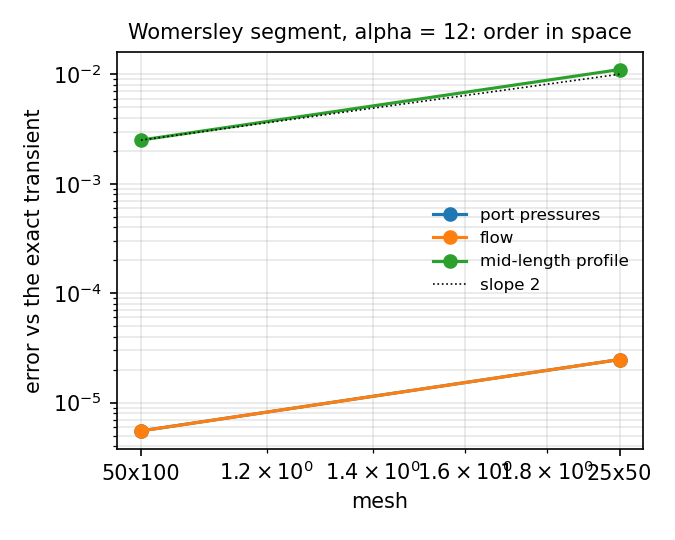
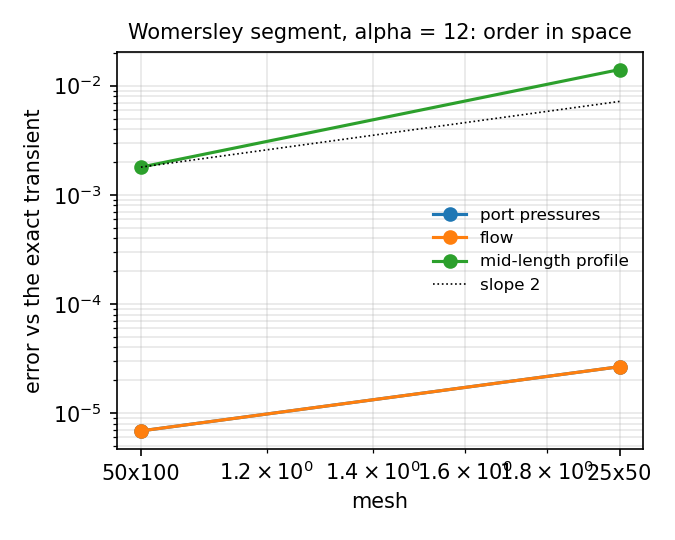
womersleySegment: the reference the wedge actually discretises; second order on every mesh
A wedge with one flat cell across discretises the circular pipe of the
face distance R_c = R cos(theta/2) with every flux multiplied by
k = 2 tan(theta/2)/theta, not the equal-area pipe used since the first
round: the two have the same inertance but viscous resistances differing
by k, a floor of about 1e-5 in the comparison. With the correct reference
(R_WEDGE, K_WEDGE) the ports converge at 2.00 on the uniform family to
200 x 400 (2.2e-6) and on the tutorial's graded family to 100 x 200
(2.0e-6), alpha 3, 6 and 12; the first round's "PIMPLE-limited" floor was
this reference error. The profile is compared inside the face distance
only (the sets sampled 5 um beyond it).

diff --git a/tutorials/circulationModels/coupling3D1D/womersleySegment/analyse.py b/tutorials/circulationModels/coupling3D1D/womersleySegment/analyse.py
@@ -58,17 +58,25 @@ def exact(alpha):
     return out
 
 
-# The flat-walled wedge of the tutorial's mesh has the cross-section
-# 0.5 R^2 sin(theta) per wedge (theta = 5 degrees), 0.99873 of its share of
-# pi R^2, with the wall vertices at R: the 3D problem solved is closest to
-# the circular pipe of the same area, radius R_EQ = R sqrt(sin(theta)/theta).
+# What the wedge mesh discretises. A wedge of angle theta with one cell
+# across and a flat outer face at the distance R_c = R cos(theta/2) from the
+# axis (its edge vertices at R) has, at every distance x from the axis,
+# faces and volumes of width 2 x tan(theta/2) instead of the sector's
+# x theta: a uniform factor k = 2 tan(theta/2)/theta. The axisymmetric
+# finite-volume problem is therefore the circular pipe of radius R_c with
+# every flux multiplied by k: Womersley's impedance of the pipe of radius
+# R_c divided by k, i.e. exact_transient(A = k pi R_c^2 = A_WEDGE,
+# R = R_c). The equal-area pipe (radius sqrt(A_WEDGE/pi)) has the same
+# inertance but a viscous resistance k times smaller; against it the
+# comparison floors at about 1e-5 (the first round used it, wrongly).
 # exact_transient() and exact_transient_profile() take the pipe's area and
-# radius as arguments (defaults: pi R^2 and R); the space study uses the
-# equal-area pipe.
+# radius as arguments (defaults: pi R^2 and R).
 import math as _math
 THETA = _math.radians(5.0)
-A_WEDGE = (360/5.0)*0.5*R**2*_math.sin(THETA)
-R_EQ = _math.sqrt(A_WEDGE/_math.pi)
+K_WEDGE = 2*_math.tan(THETA/2)/THETA
+A_WEDGE = (360/5.0)*0.5*R**2*_math.sin(THETA)       # = K_WEDGE pi R_WEDGE^2
+R_WEDGE = R*_math.cos(THETA/2)
+R_EQ = _math.sqrt(A_WEDGE/_math.pi)                 # the equal-area pipe (not used)
 
 
 def impedance(w, alpha, A=A, R=R):
@@ -230,17 +238,17 @@ def main():
                 f"| {key} [{unit}] | {abs(X):.4g} / {abs(W):.4g} / {abs(I):.4g} "
                 f"| {ph(X):.2f} / {ph(W):.2f} / {ph(I):.2f} "
                 f"| {abs(X - W)/abs(W):.2e} | {dph:.3f} |")
-        # The same against the circular pipe of the wedge's cross-section
-        # (flat wall: 0.5 R^2 sin(theta) per wedge; R_EQ): what the mesh
-        # actually represents
-        lam = 1j**1.5*R_EQ*math.sqrt(OMEGA/nu(alpha))
+        # The same against the problem the wedge discretises: the pipe of
+        # radius R_WEDGE with its flux times K_WEDGE (area A_WEDGE)
+        lam = 1j**1.5*R_WEDGE*math.sqrt(OMEGA/nu(alpha))
         f10 = 2*jv(1, lam)/(lam*jv(0, lam))
         Zeq = 1j*OMEGA*RHO*L3D/(A_WEDGE*(1 - f10))
         geq, Teq = Zeq/(Zeq + 2*ZC), 2*ZC/(Zeq + 2*ZC)
         pinc = -1j*P_INC*cmath.exp(-1j*OMEGA*L1D/C0)
         exeq = {"P_in": (1 + geq)*pinc, "Q": Teq*pinc/ZC, "P_out": Teq*pinc}
-        lines += [f"Against the pipe of the wedge's cross-section (R_eq = "
-                  f"{R_EQ*1e3:.5f} mm, 0.99873 pi R^2): " + ", ".join(
+        lines += [f"Against the problem the wedge discretises (the pipe of "
+                  f"radius R cos(theta/2) = {R_WEDGE*1e3:.5f} mm, flux x "
+                  f"{K_WEDGE:.6f}): " + ", ".join(
                       f"{k} {abs(fitted[k] - exeq[k])/abs(exeq[k]):.1e} / "
                       f"{(math.degrees(cmath.phase(fitted[k]/exeq[k])) + 180) % 360 - 180:.4f} deg"
                       for k in ("P_in", "Q", "P_out")), ""]

diff --git a/tutorials/circulationModels/coupling3D1D/womersleySegment/spaceStudy.py b/tutorials/circulationModels/coupling3D1D/womersleySegment/spaceStudy.py
@@ -163,8 +163,11 @@ def analyse(alpha, levels):
         if not finished(case):
             continue
         t, p = ports(case)
-        geo = dict(A=an.A, R=an.R) if FAMILY == "uniform" else \
-            dict(A=an.A_WEDGE, R=an.R_EQ)
+        # the problem the wedge discretises (see analyse.py): the pipe of
+        # the face distance R_c, flux times k; the uniform family is scaled
+        # so that k pi R_c^2 = pi R^2
+        geo = dict(A=an.A, R=an.R_WEDGE*SCALE_U) if FAMILY == "uniform" else \
+            dict(A=an.A_WEDGE, R=an.R_WEDGE)
         ex = an.exact_transient(alpha, t, **geo)
         eP = max(math.sqrt(np.mean((p[k] - ex[k])**2))
                  / math.sqrt(np.mean(ex[k]**2)) for k in ("to3D.P", "from3D.P"))
@@ -173,9 +176,12 @@ def analyse(alpha, levels):
         prof = profiles(case)
         times = sorted(prof)
         r = prof[times[0]][0]
+        inside = r <= geo["R"]           # the set's last points lie beyond
+        r = r[inside]                    # the flat outer face
         uex = an.exact_transient_profile(alpha, r, times, **geo)
         umax = np.abs(uex).max()
-        eU = max(np.abs(prof[tk][1] - uex[i]).max() for i, tk in enumerate(times))/umax
+        eU = max(np.abs(prof[tk][1][inside] - uex[i]).max()
+                 for i, tk in enumerate(times))/umax
         log = (case/"log.pimpleFoam").read_text()
         steps = len(re.findall(r"^Time = ", log, re.M))
         iters = len(re.findall(r"^PIMPLE: iteration", log, re.M))
@@ -184,14 +190,15 @@ def analyse(alpha, levels):
                      eP, eQ, eU, iters/max(steps, 1),
                      float(ex_t[-1]) if ex_t else math.nan))
     geometry = (
-        "The wedge is scaled by sqrt(theta/sin theta) (its flat wall then "
-        "spans the cross-section pi R^2) and has no wall grading, so the "
-        "exact solution is that of the pipe of radius R, independent of the "
-        "mesh." if FAMILY == "uniform" else
-        "The exact solution is that of the circular pipe of the wedge's "
-        "cross-section (flat wall: 0.5 R^2 sin(theta) per wedge, R_eq = "
-        f"{an.R_EQ*1e3:.5f} mm); against the pipe of radius R the comparison "
-        "floors at 6e-5 whatever the mesh.")
+        "The wedge has no wall grading and is scaled by sqrt(theta/sin "
+        "theta), so that its cross-section is pi R^2. The exact solution is "
+        "that of the problem the wedge discretises: the pipe of radius "
+        f"R_c = {an.R_WEDGE*SCALE_U*1e3:.5f} mm (the flat face's distance "
+        f"from the axis) with every flux times k = {an.K_WEDGE:.6f} "
+        "(analyse.py); the profile is compared for r <= R_c." if FAMILY == "uniform" else
+        "The exact solution is that of the problem the wedge discretises: the "
+        f"pipe of radius R_c = R cos(theta/2) = {an.R_WEDGE*1e3:.5f} mm with "
+        f"every flux times k = {an.K_WEDGE:.6f} (analyse.py).")
     lines = [f"# Order in space of the Womersley segment, alpha = {alpha:g}"
              + (" (uniform mesh family)" if FAMILY == "uniform" else ""),
              "",

diff --git a/tutorials/circulationModels/coupling3D1D/orderStudy.py b/tutorials/circulationModels/coupling3D1D/orderStudy.py
@@ -256,7 +256,7 @@ def exact_signals(case_name, t):
         return {"to3D.Q": (t, Q), "to3D.P": (t, P)}
     if case_name == "womersleySegment":
         # the circular pipe of the wedge's cross-section (see its README)
-        ex = an.exact_transient(6.0, t, A=an.A_WEDGE, R=an.R_EQ)
+        ex = an.exact_transient(6.0, t, A=an.A_WEDGE, R=an.R_WEDGE)
         return {k: (t, x) for k, x in ex.items()}
     raise SystemExit(f"{case_name} has no exact solution")
 

diff --git a/src/circulationModels/docs/PAPER_RESULTS.md b/src/circulationModels/docs/PAPER_RESULTS.md
@@ -1104,3 +1104,61 @@ stress) and the structural end condition. Recommendation for the paper:
 quote the long-pulse case as the one in which the coupled-against-full
 comparison measures the coupling, and match the 1D wall to the long
 tube's long-wave speed.
+
+### R2 (concluded). The Womersley floor was the reference, not the solver (verified)
+
+The finest pair of the uniform family gave 1.68 on the ports, and the
+fourth level (200 x 400, 17 h on xenosim) 0.42. Checks at 100 x 200: the
+1D side refined (800 cells, CFL 0.25) changes the ports by 1e-8 and the
+time step halved by 1e-9, so neither is the cause. The error was linear
+(identical relative error at 50, 5 and 0.5 Pa, so not the convection
+term), and doubling the pipe length doubled it (so not an end effect at
+the ports): a per-length error in the segment's impedance, independent
+of the mesh.
+
+**Cause.** A wedge of angle theta with one cell across and a flat outer
+face at the distance R_c = R cos(theta/2) from the axis has, at every
+distance x from the axis, faces and volumes of width 2 x tan(theta/2)
+instead of the sector's x theta, a uniform factor k = 2 tan(theta/2)/theta
+= 1.000635. The axisymmetric finite-volume problem it discretises is
+therefore the circular pipe of radius R_c with every flux multiplied by
+k: Womersley's impedance of radius R_c divided by k (area k pi R_c^2 =
+A_WEDGE). The "equal-area pipe" used since the first round (radius
+sqrt(A_WEDGE/pi)) has the same inertance but a viscous resistance k
+times smaller, and the comparison floors at about 1e-5 against it. The
+profile sets also sampled 5 um beyond the flat face (r = 0.9995 R >
+R_c), which made the profile's maximum error sit at the wall.
+
+**With the correct reference** (`analyse.py: R_WEDGE, K_WEDGE`; used by
+`spaceStudy.py`, `orderStudy.py --exact` and `results.md`):
+
+| family | mesh | ports | order | profile (r <= R_c) | order |
+|---|---|---|---|---|---|
+| uniform, alpha 6 | 25 x 50 | 1.37e-04 | | 4.64e-02 | |
+| | 50 x 100 | 3.43e-05 | 1.99 | 2.54e-02 | 0.87 |
+| | 100 x 200 | 8.59e-06 | 2.00 | 1.48e-02 | 0.78 |
+| | 200 x 400 | 2.15e-06 | 2.00 | 8.54e-03 | 0.79 |
+| graded 10:1 (tutorial), alpha 6 | 25 x 50 | 3.11e-05 | | 6.74e-03 | |
+| | 50 x 100 | 7.80e-06 | 1.99 | 8.56e-04 | 2.98 |
+| | 100 x 200 | 1.96e-06 | 2.00 | 1.86e-04 | 2.20 |
+| graded, alpha 3 | 25 x 50 / 50 x 100 | 5.82e-05 / 1.43e-05 | 2.02 | 7.69e-03 / 2.19e-03 | 1.81 |
+| graded, alpha 12 | 25 x 50 / 50 x 100 | 2.67e-05 / 6.88e-06 | 1.95 | 1.40e-02 / 1.79e-03 | 2.97 |
+
+The ports converge at second order on both families at every alpha, to
+2e-6 of the signal. So the first-round statement that the 100 x 200
+graded mesh "is limited by the outer loop ... about 5e-6, not the mesh's"
+was wrong: that was the reference's floor too (the PIMPLE stall, 45
+passes per step, is a cost, not an accuracy limit). The profile
+converges at second order or better on the graded mesh; on the uniform
+mesh its maximum sits in the first cell at the wall, where the sampling
+interpolates linearly between the wall value and the first cell centre
+(first order), and should be measured on cell values instead.
+
+Periodic state of the tutorial runs against the correct reference:
+amplitudes 6.7e-6 to 8.0e-6 (alpha 6 and 12) and 1.1-1.3e-5 (alpha 3),
+phases 0.0002-0.0004 degrees (essentially the first round's numbers,
+since the periodic state is dominated by the inertance). Time order
+against the exact transient (alpha 6, 50 x 100 graded): Euler 0.99-1.00
+to the finest step; backward 1.99 before the floor; BDF 3/4 at the floor
+from the coarsest step; the floor, 7.1e-6, is the spatial error of this
+mesh (7.8e-6 in the space study over the 1 s window).

diff --git a/tutorials/circulationModels/coupling3D1D/womersleySegment/orders_linear.md b/tutorials/circulationModels/coupling3D1D/womersleySegment/orders_linear.md
@@ -13,10 +13,10 @@ Against the exact solution (Euler):
 
 | dt | to3D.Q | order | to3D.P | order | from3D.Q | order | from3D.P | order |
 |---|---|---|---|---|---|---|---|---|
-| 0.004 | 1.08e-03 |  | 1.03e-03 |  | 1.08e-03 |  | 1.08e-03 |  |
-| 0.002 | 5.48e-04 | 0.99 | 5.19e-04 | 0.99 | 5.48e-04 | 0.99 | 5.48e-04 | 0.99 |
-| 0.001 | 2.77e-04 | 0.99 | 2.62e-04 | 0.99 | 2.77e-04 | 0.99 | 2.77e-04 | 0.99 |
-| 0.0005 | 1.41e-04 | 0.97 | 1.33e-04 | 0.97 | 1.41e-04 | 0.97 | 1.41e-04 | 0.97 |
+| 0.004 | 1.08e-03 |  | 1.02e-03 |  | 1.08e-03 |  | 1.08e-03 |  |
+| 0.002 | 5.43e-04 | 0.99 | 5.14e-04 | 0.99 | 5.43e-04 | 0.99 | 5.43e-04 | 0.99 |
+| 0.001 | 2.72e-04 | 1.00 | 2.58e-04 | 1.00 | 2.72e-04 | 1.00 | 2.72e-04 | 1.00 |
+| 0.0005 | 1.36e-04 | 1.00 | 1.29e-04 | 1.00 | 1.36e-04 | 1.00 | 1.36e-04 | 1.00 |
 
 Finest run order_Euler_dt0.0005_linear: 1200 steps, 27.5 PIMPLE iterations per step, 1696 s
 
@@ -31,10 +31,10 @@ Against the exact solution (backward):
 
 | dt | to3D.Q | order | to3D.P | order | from3D.Q | order | from3D.P | order |
 |---|---|---|---|---|---|---|---|---|
-| 0.004 | 3.09e-05 |  | 2.93e-05 |  | 3.09e-05 |  | 3.09e-05 |  |
-| 0.002 | 9.86e-06 | 1.65 | 9.34e-06 | 1.65 | 9.86e-06 | 1.65 | 9.86e-06 | 1.65 |
-| 0.001 | 6.06e-06 | 0.70 | 5.74e-06 | 0.70 | 6.06e-06 | 0.70 | 6.06e-06 | 0.70 |
-| 0.0005 | 5.63e-06 | 0.10 | 5.34e-06 | 0.10 | 5.63e-06 | 0.10 | 5.63e-06 | 0.10 |
+| 0.004 | 2.62e-05 |  | 2.48e-05 |  | 2.62e-05 |  | 2.62e-05 |  |
+| 0.002 | 6.60e-06 | 1.99 | 6.26e-06 | 1.99 | 6.60e-06 | 1.99 | 6.60e-06 | 1.99 |
+| 0.001 | 6.15e-06 | 0.10 | 5.82e-06 | 0.10 | 6.15e-06 | 0.10 | 6.15e-06 | 0.10 |
+| 0.0005 | 6.82e-06 | -0.15 | 6.46e-06 | -0.15 | 6.82e-06 | -0.15 | 6.82e-06 | -0.15 |
 
 Finest run order_backward_dt0.0005_linear: 1200 steps, 21.5 PIMPLE iterations per step, 714 s
 
@@ -49,10 +49,10 @@ Against the exact solution (BDF3):
 
 | dt | to3D.Q | order | to3D.P | order | from3D.Q | order | from3D.P | order |
 |---|---|---|---|---|---|---|---|---|
-| 0.004 | 7.34e-06 |  | 6.96e-06 |  | 7.34e-06 |  | 7.34e-06 |  |
-| 0.002 | 5.57e-06 | 0.40 | 5.28e-06 | 0.40 | 5.57e-06 | 0.40 | 5.57e-06 | 0.40 |
-| 0.001 | 5.57e-06 | 0.00 | 5.28e-06 | 0.00 | 5.57e-06 | 0.00 | 5.57e-06 | 0.00 |
-| 0.0005 | 5.57e-06 | -0.00 | 5.28e-06 | -0.00 | 5.57e-06 | -0.00 | 5.57e-06 | -0.00 |
+| 0.004 | 8.78e-06 |  | 8.32e-06 |  | 8.78e-06 |  | 8.78e-06 |  |
+| 0.002 | 7.11e-06 | 0.30 | 6.74e-06 | 0.30 | 7.11e-06 | 0.30 | 7.11e-06 | 0.30 |
+| 0.001 | 7.09e-06 | 0.00 | 6.72e-06 | 0.00 | 7.09e-06 | 0.00 | 7.09e-06 | 0.00 |
+| 0.0005 | 7.10e-06 | -0.00 | 6.73e-06 | -0.00 | 7.10e-06 | -0.00 | 7.10e-06 | -0.00 |
 
 Finest run order_BDF3_dt0.0005_linear: 1200 steps, 19.2 PIMPLE iterations per step, 1269 s
 
@@ -67,10 +67,10 @@ Against the exact solution (BDF4):
 
 | dt | to3D.Q | order | to3D.P | order | from3D.Q | order | from3D.P | order |
 |---|---|---|---|---|---|---|---|---|
-| 0.004 | 6.55e-06 |  | 6.21e-06 |  | 6.55e-06 |  | 6.55e-06 |  |
-| 0.002 | 5.61e-06 | 0.22 | 5.31e-06 | 0.22 | 5.61e-06 | 0.22 | 5.61e-06 | 0.22 |
-| 0.001 | 5.58e-06 | 0.01 | 5.29e-06 | 0.01 | 5.58e-06 | 0.01 | 5.58e-06 | 0.01 |
-| 0.0005 | 5.57e-06 | 0.00 | 5.28e-06 | 0.00 | 5.57e-06 | 0.00 | 5.57e-06 | 0.00 |
+| 0.004 | 7.95e-06 |  | 7.53e-06 |  | 7.95e-06 |  | 7.95e-06 |  |
+| 0.002 | 7.11e-06 | 0.16 | 6.74e-06 | 0.16 | 7.11e-06 | 0.16 | 7.11e-06 | 0.16 |
+| 0.001 | 7.10e-06 | 0.00 | 6.73e-06 | 0.00 | 7.10e-06 | 0.00 | 7.10e-06 | 0.00 |
+| 0.0005 | 7.10e-06 | 0.00 | 6.73e-06 | 0.00 | 7.10e-06 | 0.00 | 7.10e-06 | 0.00 |
 
 Finest run order_BDF4_dt0.0005_linear: 1200 steps, 17.7 PIMPLE iterations per step, 983 s
 

diff --git a/tutorials/circulationModels/coupling3D1D/womersleySegment/results.md b/tutorials/circulationModels/coupling3D1D/womersleySegment/results.md
@@ -11,7 +11,7 @@ Incident wave 50.0 Pa at 1.0 Hz; Zc = 2.063e+07 Pa s/m3; c0 = 6.172 m/s.
 | P_in [Pa] | 50.59 / 50.59 / 50.19 | -145.16 / -145.16 / -145.43 | 7.09e-05 | 0.004 |
 | Q [m3/s] | 2.403e-06 / 2.403e-06 / 2.421e-06 | -151.56 / -151.56 / -151.24 | 7.14e-05 | -0.004 |
 | P_out [Pa] | 49.57 / 49.57 / 49.94 | -151.56 / -151.56 / -151.24 | 7.23e-05 | -0.004 |
-Against the pipe of the wedge's cross-section (R_eq = 9.99365 mm, 0.99873 pi R^2): P_in 5.8e-06 / -0.0003 deg, Q 6.9e-06 / 0.0004 deg, P_out 6.5e-06 / 0.0003 deg
+Against the problem the wedge discretises (the pipe of radius R cos(theta/2) = 9.99048 mm, flux x 1.000635): P_in 6.7e-06 / -0.0004 deg, Q 7.8e-06 / 0.0004 deg, P_out 7.1e-06 / 0.0004 deg
 
 Mid-length velocity profile over the last period, 9 phases: max |u - u_Womersley| / max |u| = 8.89e-03
 
@@ -24,7 +24,7 @@ Mid-length velocity profile over the last period, 9 phases: max |u - u_Womersley
 | P_in [Pa] | 52.59 / 52.58 / 50.19 | -145.01 / -145.02 / -145.43 | 1.34e-04 | 0.003 |
 | Q [m3/s] | 2.307e-06 / 2.308e-06 / 2.421e-06 | -151.99 / -151.98 / -151.24 | 1.47e-04 | -0.004 |
 | P_out [Pa] | 47.6 / 47.61 / 49.94 | -151.99 / -151.98 / -151.24 | 1.48e-04 | -0.004 |
-Against the pipe of the wedge's cross-section (R_eq = 9.99365 mm, 0.99873 pi R^2): P_in 1.4e-05 / -0.0004 deg, Q 1.6e-05 / 0.0004 deg, P_out 1.6e-05 / 0.0003 deg
+Against the problem the wedge discretises (the pipe of radius R cos(theta/2) = 9.99048 mm, flux x 1.000635): P_in 1.1e-05 / -0.0002 deg, Q 1.3e-05 / 0.0003 deg, P_out 1.2e-05 / 0.0003 deg
 
 Mid-length velocity profile over the last period, 9 phases: max |u - u_Womersley| / max |u| = 2.31e-03
 
@@ -37,6 +37,6 @@ Mid-length velocity profile over the last period, 9 phases: max |u - u_Womersley
 | P_in [Pa] | 51.1 / 51.1 / 50.19 | -144.97 / -144.97 / -145.43 | 8.52e-05 | 0.004 |
 | Q [m3/s] | 2.379e-06 / 2.379e-06 / 2.421e-06 | -151.83 / -151.82 / -151.24 | 8.79e-05 | -0.004 |
 | P_out [Pa] | 49.08 / 49.08 / 49.94 | -151.83 / -151.82 / -151.24 | 8.88e-05 | -0.004 |
-Against the pipe of the wedge's cross-section (R_eq = 9.99365 mm, 0.99873 pi R^2): P_in 5.1e-06 / -0.0002 deg, Q 6.2e-06 / 0.0003 deg, P_out 5.9e-06 / 0.0002 deg
+Against the problem the wedge discretises (the pipe of radius R cos(theta/2) = 9.99048 mm, flux x 1.000635): P_in 6.9e-06 / -0.0003 deg, Q 8.0e-06 / 0.0004 deg, P_out 7.1e-06 / 0.0004 deg
 
 Mid-length velocity profile over the last period, 9 phases: max |u - u_Womersley| / max |u| = 4.60e-03

diff --git a/tutorials/circulationModels/coupling3D1D/womersleySegment/space_alpha6_u.md b/tutorials/circulationModels/coupling3D1D/womersleySegment/space_alpha6_u.md
@@ -1,9 +1,10 @@
 # Order in space of the Womersley segment, alpha = 6 (uniform mesh family)
 
-Mesh refined as nr x nz; 0-1.0 s from rest, BDF 4 and coupling order 4 at dt = 0.5 ms, linearised vessels at fourth order. Errors against the exact transient solution: port pressures (max of the two) and flow, RMS over the window relative to the RMS of the exact signal; mid-length velocity profile, max over eight instants of max |u - u_exact| / max |u_exact|. The wedge is scaled by sqrt(theta/sin theta) (its flat wall then spans the cross-section pi R^2) and has no wall grading, so the exact solution is that of the pipe of radius R, independent of the mesh.
+Mesh refined as nr x nz; 0-1.0 s from rest, BDF 4 and coupling order 4 at dt = 0.5 ms, linearised vessels at fourth order. Errors against the exact transient solution: port pressures (max of the two) and flow, RMS over the window relative to the RMS of the exact signal; mid-length velocity profile, max over eight instants of max |u - u_exact| / max |u_exact|. The wedge has no wall grading and is scaled by sqrt(theta/sin theta), so that its cross-section is pi R^2. The exact solution is that of the problem the wedge discretises: the pipe of radius R_c = 9.99683 mm (the flat face's distance from the axis) with every flux times k = 1.000635 (analyse.py); the profile is compared for r <= R_c.
 
 | nr x nz | P ports | order | Q | order | profile | order | PIMPLE it./step | time [s] |
 |---|---|---|---|---|---|---|---|---|
-| 25 x 50 | 1.35e-04 |  | 1.35e-04 |  | 4.49e-02 |  | 5.8 | 69 |
-| 50 x 100 | 3.36e-05 | 2.01 | 3.36e-05 | 2.01 | 2.39e-02 | 0.91 | 8.4 | 322 |
-| 100 x 200 | 1.05e-05 | 1.68 | 1.05e-05 | 1.68 | 1.33e-02 | 0.84 | 14.8 | 3508 |
+| 25 x 50 | 1.37e-04 |  | 1.37e-04 |  | 4.64e-02 |  | 5.8 | 69 |
+| 50 x 100 | 3.43e-05 | 1.99 | 3.43e-05 | 1.99 | 2.54e-02 | 0.87 | 8.4 | 322 |
+| 100 x 200 | 8.59e-06 | 2.00 | 8.59e-06 | 2.00 | 1.48e-02 | 0.78 | 14.8 | 3508 |
+| 200 x 400 | 2.15e-06 | 2.00 | 2.15e-06 | 2.00 | 8.54e-03 | 0.79 | 35.9 | 60141 |

diff --git a/tutorials/circulationModels/coupling3D1D/womersleySegment/space_alpha6.md b/tutorials/circulationModels/coupling3D1D/womersleySegment/space_alpha6.md
@@ -1,9 +1,9 @@
 # Order in space of the Womersley segment, alpha = 6
 
-Mesh refined as nr x nz; 0-1.0 s from rest, BDF 4 and coupling order 4 at dt = 0.5 ms, linearised vessels at fourth order. Errors against the exact transient solution: port pressures (max of the two) and flow, RMS over the window relative to the RMS of the exact signal; mid-length velocity profile, max over eight instants of max |u - u_exact| / max |u_exact|. The exact solution is that of the circular pipe of the wedge's cross-section (flat wall: 0.5 R^2 sin(theta) per wedge, R_eq = 9.99365 mm); against the pipe of radius R the comparison floors at 6e-5 whatever the mesh.
+Mesh refined as nr x nz; 0-1.0 s from rest, BDF 4 and coupling order 4 at dt = 0.5 ms, linearised vessels at fourth order. Errors against the exact transient solution: port pressures (max of the two) and flow, RMS over the window relative to the RMS of the exact signal; mid-length velocity profile, max over eight instants of max |u - u_exact| / max |u_exact|. The exact solution is that of the problem the wedge discretises: the pipe of radius R_c = R cos(theta/2) = 9.99048 mm with every flux times k = 1.000635 (analyse.py).
 
 | nr x nz | P ports | order | Q | order | profile | order | PIMPLE it./step | time [s] |
 |---|---|---|---|---|---|---|---|---|
-| 25 x 50 | 2.47e-05 |  | 2.47e-05 |  | 5.32e-03 |  | 8.9 | 78 |
-| 50 x 100 | 4.61e-06 | 2.42 | 4.61e-06 | 2.42 | 1.17e-03 | 2.19 | 18.6 | 681 |
-| 100 x 200 | 6.49e-06 | -0.49 | 6.49e-06 | -0.49 | 1.36e-03 | -0.23 | 45.4 | 12276 |
+| 25 x 50 | 3.11e-05 |  | 3.11e-05 |  | 6.74e-03 |  | 8.9 | 78 |
+| 50 x 100 | 7.80e-06 | 1.99 | 7.80e-06 | 1.99 | 8.56e-04 | 2.98 | 18.6 | 681 |
+| 100 x 200 | 1.96e-06 | 2.00 | 1.96e-06 | 2.00 | 1.86e-04 | 2.20 | 45.4 | 12276 |

diff --git a/tutorials/circulationModels/coupling3D1D/womersleySegment/space_alpha3.md b/tutorials/circulationModels/coupling3D1D/womersleySegment/space_alpha3.md
@@ -1,8 +1,8 @@
 # Order in space of the Womersley segment, alpha = 3
 
-Mesh refined as nr x nz; 0-1.0 s from rest, BDF 4 and coupling order 4 at dt = 0.5 ms, linearised vessels at fourth order. Errors against the exact transient solution: port pressures (max of the two) and flow, RMS over the window relative to the RMS of the exact signal; mid-length velocity profile, max over eight instants of max |u - u_exact| / max |u_exact|. The exact solution is that of the circular pipe of the wedge's cross-section (flat wall: 0.5 R^2 sin(theta) per wedge, R_eq = 9.99365 mm); against the pipe of radius R the comparison floors at 6e-5 whatever the mesh.
+Mesh refined as nr x nz; 0-1.0 s from rest, BDF 4 and coupling order 4 at dt = 0.5 ms, linearised vessels at fourth order. Errors against the exact transient solution: port pressures (max of the two) and flow, RMS over the window relative to the RMS of the exact signal; mid-length velocity profile, max over eight instants of max |u - u_exact| / max |u_exact|. The exact solution is that of the problem the wedge discretises: the pipe of radius R_c = R cos(theta/2) = 9.99048 mm with every flux times k = 1.000635 (analyse.py).
 
 | nr x nz | P ports | order | Q | order | profile | order | PIMPLE it./step | time [s] |
 |---|---|---|---|---|---|---|---|---|
-| 25 x 50 | 3.43e-05 |  | 3.43e-05 |  | 7.68e-03 |  | 15.6 | 139 |
-| 50 x 100 | 1.35e-05 | 1.35 | 1.35e-05 | 1.35 | 2.18e-03 | 1.82 | 42.1 | 1531 |
+| 25 x 50 | 5.82e-05 |  | 5.82e-05 |  | 7.69e-03 |  | 15.6 | 139 |
+| 50 x 100 | 1.43e-05 | 2.02 | 1.43e-05 | 2.02 | 2.19e-03 | 1.81 | 42.1 | 1531 |

diff --git a/tutorials/circulationModels/coupling3D1D/womersleySegment/space_alpha12.md b/tutorials/circulationModels/coupling3D1D/womersleySegment/space_alpha12.md
@@ -1,8 +1,8 @@
 # Order in space of the Womersley segment, alpha = 12
 
-Mesh refined as nr x nz; 0-1.0 s from rest, BDF 4 and coupling order 4 at dt = 0.5 ms, linearised vessels at fourth order. Errors against the exact transient solution: port pressures (max of the two) and flow, RMS over the window relative to the RMS of the exact signal; mid-length velocity profile, max over eight instants of max |u - u_exact| / max |u_exact|. The exact solution is that of the circular pipe of the wedge's cross-section (flat wall: 0.5 R^2 sin(theta) per wedge, R_eq = 9.99365 mm); against the pipe of radius R the comparison floors at 6e-5 whatever the mesh.
+Mesh refined as nr x nz; 0-1.0 s from rest, BDF 4 and coupling order 4 at dt = 0.5 ms, linearised vessels at fourth order. Errors against the exact transient solution: port pressures (max of the two) and flow, RMS over the window relative to the RMS of the exact signal; mid-length velocity profile, max over eight instants of max |u - u_exact| / max |u_exact|. The exact solution is that of the problem the wedge discretises: the pipe of radius R_c = R cos(theta/2) = 9.99048 mm with every flux times k = 1.000635 (analyse.py).
 
 | nr x nz | P ports | order | Q | order | profile | order | PIMPLE it./step | time [s] |
 |---|---|---|---|---|---|---|---|---|
-| 25 x 50 | 2.48e-05 |  | 2.48e-05 |  | 1.10e-02 |  | 6.2 | 57 |
-| 50 x 100 | 5.51e-06 | 2.17 | 5.51e-06 | 2.17 | 2.50e-03 | 2.14 | 10.2 | 391 |
+| 25 x 50 | 2.67e-05 |  | 2.67e-05 |  | 1.40e-02 |  | 6.2 | 57 |
+| 50 x 100 | 6.88e-06 | 1.95 | 6.88e-06 | 1.95 | 1.79e-03 | 2.97 | 10.2 | 391 |
